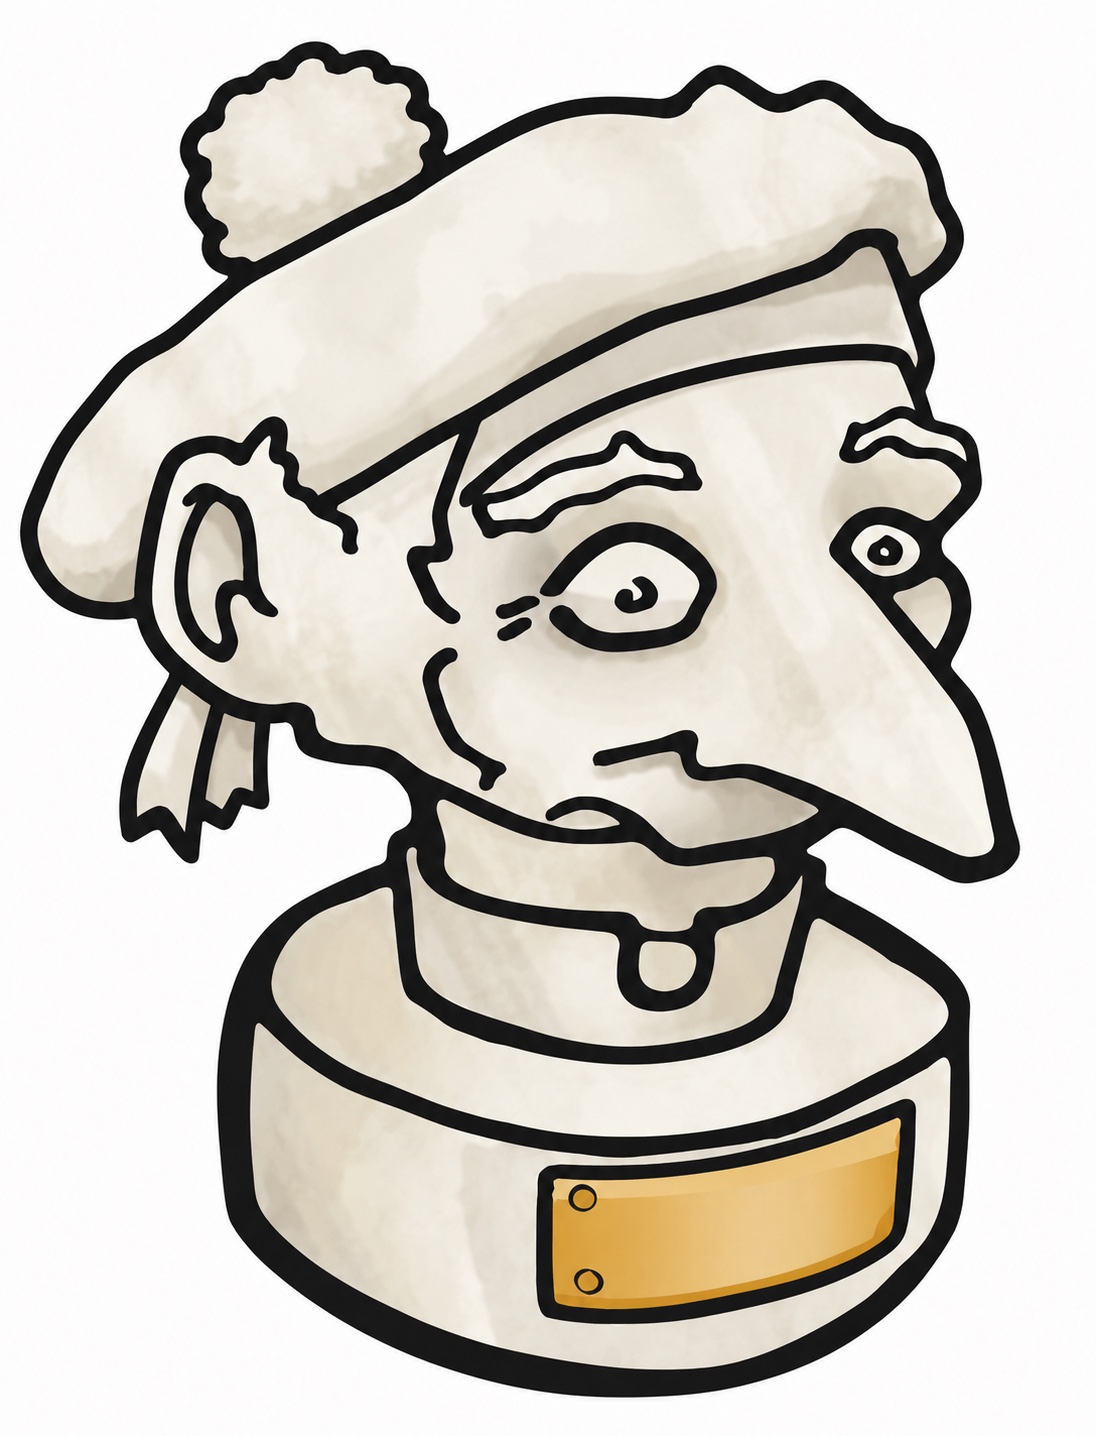
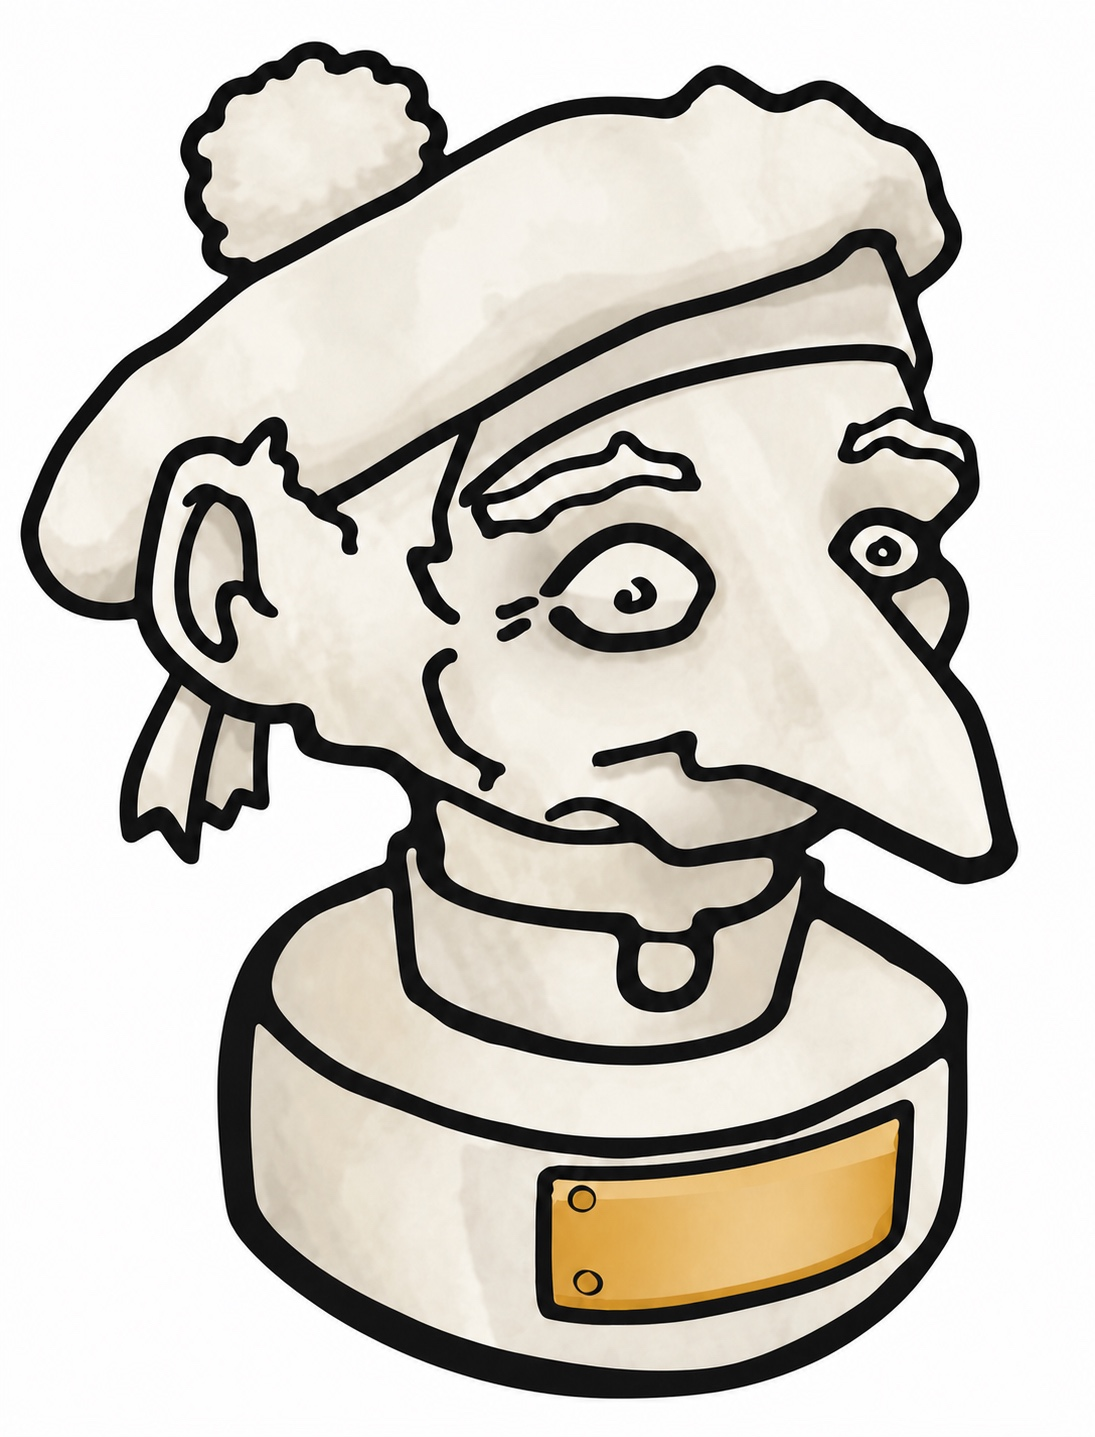
Dokumentér og valider dagsikonernes baggrund

diff --git a/__tests__/kalliope-icons-background.test.js b/__tests__/kalliope-icons-background.test.js
@@ -1,0 +1,62 @@
+import fs from 'node:fs';
+import path from 'node:path';
+import sharp from 'sharp';
+
+const iconDirectory = 'public/images/about/kalliope-days';
+const borderWidth = 8;
+const minimumWhiteChannel = 245;
+const maximumChannelDifference = 5;
+
+const iconFiles = fs
+  .readdirSync(iconDirectory)
+  .filter(filename => filename.endsWith('.jpg'))
+  .sort();
+
+describe('Kalliope-ikonernes baggrund', () => {
+  test('finder dagsikoner', () => {
+    expect(iconFiles.length).toBeGreaterThan(0);
+  });
+
+  test.each(iconFiles)('%s har hvid baggrund langs billedkanten', async file => {
+    const filename = path.join(iconDirectory, file);
+    const { data, info } = await sharp(filename)
+      .removeAlpha()
+      .raw()
+      .toBuffer({ resolveWithObject: true });
+
+    const nonWhitePixels = [];
+
+    for (let y = 0; y < info.height; y += 1) {
+      for (let x = 0; x < info.width; x += 1) {
+        const isBorderPixel =
+          x < borderWidth ||
+          x >= info.width - borderWidth ||
+          y < borderWidth ||
+          y >= info.height - borderWidth;
+
+        if (isBorderPixel === false) {
+          continue;
+        }
+
+        const offset = (y * info.width + x) * info.channels;
+        const channels = [
+          data[offset],
+          data[offset + 1],
+          data[offset + 2],
+        ];
+        const darkestChannel = Math.min(...channels);
+        const channelDifference =
+          Math.max(...channels) - Math.min(...channels);
+        const isWhite =
+          darkestChannel >= minimumWhiteChannel &&
+          channelDifference <= maximumChannelDifference;
+
+        if (isWhite === false && nonWhitePixels.length < 10) {
+          nonWhitePixels.push({ x, y, channels });
+        }
+      }
+    }
+
+    expect(nonWhitePixels).toEqual([]);
+  });
+});

diff --git a/docs/kalliope-icons-design.md b/docs/kalliope-icons-design.md
@@ -1,0 +1,77 @@
+# Kalliopes dagsikoner
+
+## Formål
+
+Kalliopes ikon i sidens header kan skifte på udvalgte mærkedage. Ikonerne er
+illustrationer, som knytter sig til en dato, en højtid eller en digter. På almindelige
+dage vises standardikonet.
+
+Denne mekanisme er adskilt fra forsiden **I dag**:
+
+- dagsikonet vælges af `common/kalliope-icon.js`
+- dagens begivenheder og digterportræt bygges af `tools/build-static/today.js`
+- et portræt kan prioriteres i `content/today/portrait-priorities.json`
+
+Et dagsikon med en digter garanterer derfor ikke i sig selv, at digterens portræt
+vises blandt dagens begivenheder. Når de to ting skal følges ad, skal både
+datoregisteret og portrætprioriteringen opdateres.
+
+## Filer og navngivning
+
+Dagsikoner ligger i:
+
+```text
+public/images/about/kalliope-days/
+```
+
+En datospecifik fil navngives `MM-DD.jpg`, for eksempel `01-25.jpg`. Filnavnet
+skal også optages i datolisten i `common/kalliope-icon.js`.
+
+`12-xx.jpg` er et fælles decemberikon. Enkelte datoer kan genbruge et andet
+ikon ved at pege på dets datonøgle; Kingos fødselsdag den 15. december genbruger
+for eksempel `09-08.jpg`.
+
+## Valg af ikon
+
+`getKalliopeIconSrc()` anvender denne rækkefølge:
+
+1. Et eksplicit ikon eller en eksplicit genbrug for datoen.
+2. Det fælles decemberikon fra 1. til og med 26. december.
+3. Standardikonet `/images/about/poet.jpg`.
+
+`getKalliopeIconDate()` understøtter `?date=MM-DD`, så et ikon kan ses uden at
+ændre systemdatoen. Ugyldige datoer ignoreres.
+
+## Billedkrav
+
+- Formatet er JPEG.
+- Motivet skal have samme høje, portrætorienterede komposition som de øvrige
+  ikoner.
+- Den ydre baggrund skal fremstå ensartet hvid uden papirstruktur, skygge eller
+  farvestik.
+- Motivet må gerne have cremefarvet akvareltekstur; kravet om hvid gælder kun
+  baggrunden omkring motivet.
+- JPEG-komprimering kan flytte en hvid pixel få værdier fra RGB
+  `(255, 255, 255)`. Testen accepterer derfor en lille teknisk tolerance.
+
+## Portræt på en digters mærkedag
+
+Hvis en bestemt digter altid skal levere dagens portræt:
+
+1. Digterens `info.xml` skal indeholde datoen.
+2. Digteren skal have `portraits.xml` med et primært portræt.
+3. `content/today/portrait-priorities.json` skal knytte `MM-DD` til digterens id.
+
+Læg prioriteringen under `all`, når den skal gælde på alle sprog. En
+sprogspecifik prioritering kan overskrive den fælles værdi.
+
+## Test
+
+`__tests__/kalliope-icon.test.js` kontrollerer datovalg, genbrug og fallback.
+`__tests__/kalliope-icons-background.test.js` finder automatisk alle JPEG-filer
+i ikonmappen og kontrollerer den yderste otte pixels brede ramme. Rammen skal
+være næsten hvid og neutral; bredden er valgt, så testen måler baggrunden uden
+at ramme motiver, der ligger tæt på kanten.
+
+Tests af portrætprioriteringer ligger i
+`__tests__/today-portrait-priorities.test.js`.
